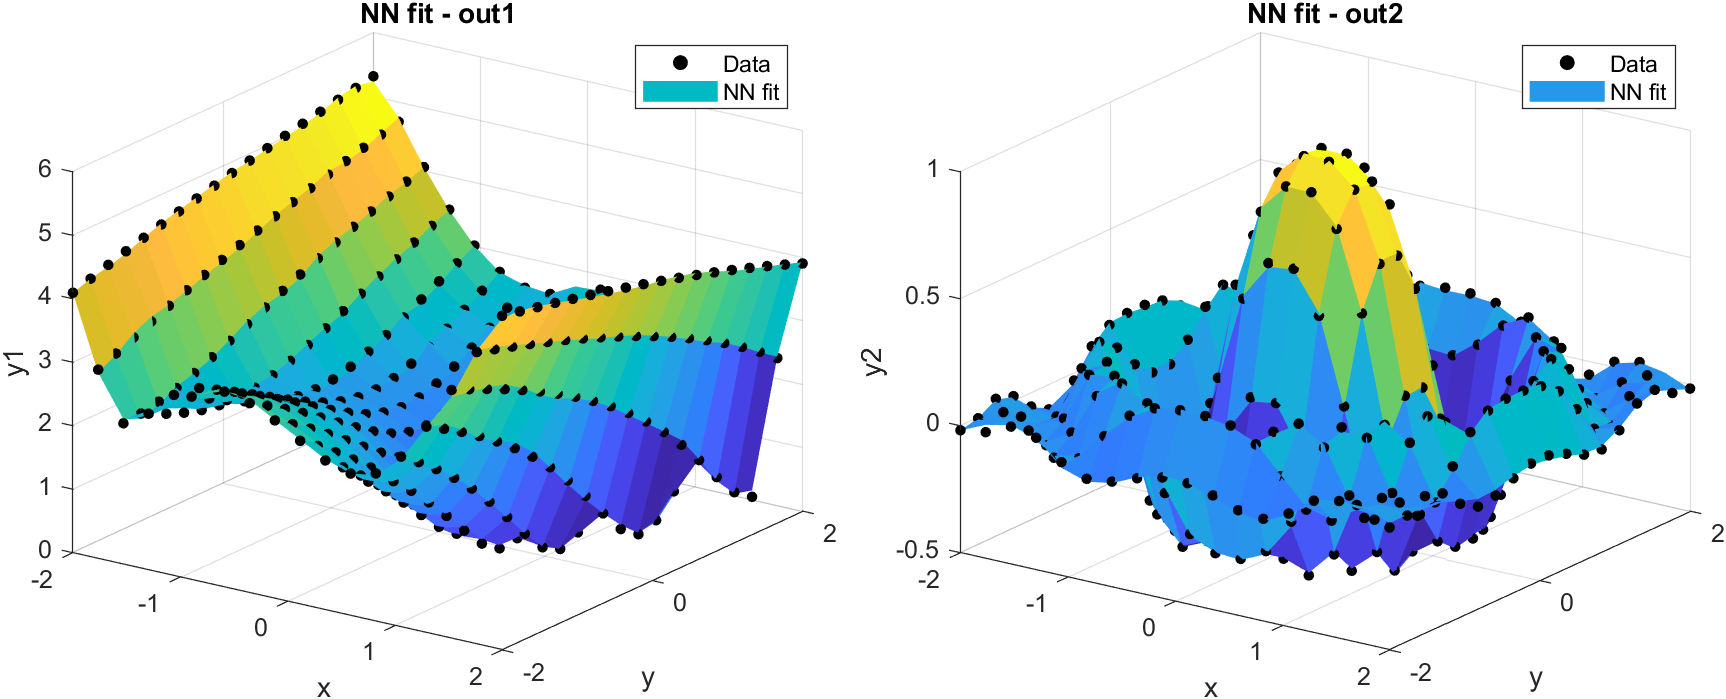
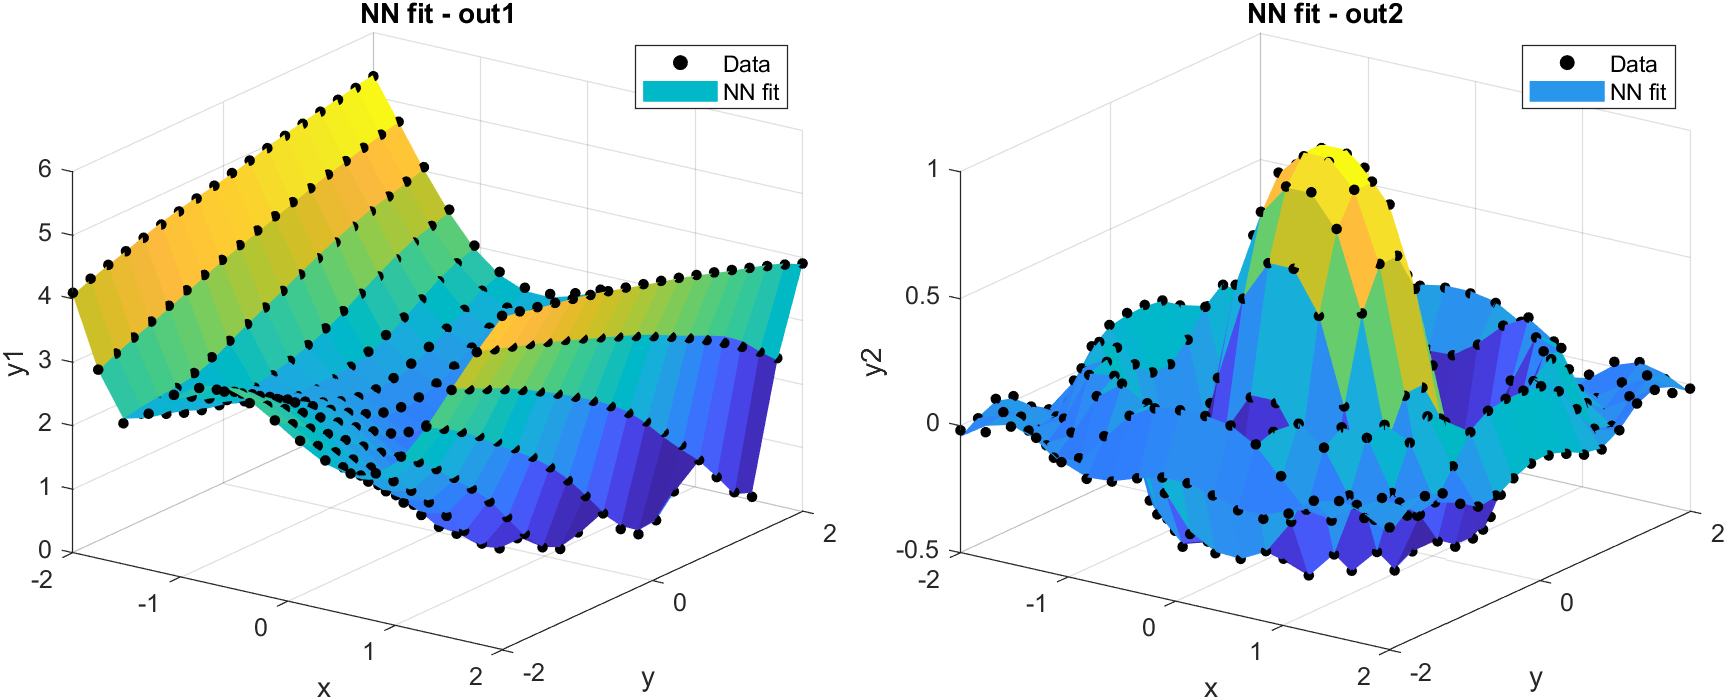
feat: 支援 NN.ActivationFunction = 'Bspline' 預設參數，完善 README，NeuralFit/Initialization 行為優化

diff --git a/demoScript/SharpFunctionApproximate.m b/demoScript/SharpFunctionApproximate.m
@@ -1,28 +1,42 @@
-%% 2D Piecewise-Constant Surface Fitting with Pointwise Error
-% Target: a 2D function with multiple plateau regions and sharp jumps
+%% 2D Sharp-but-Smooth Function Fitting with Pointwise Error
+% Target: a 2D function with sharp but smooth transitions
 clear; clc; close all;
 
-%% Generate piecewise-constant target on [-2,2]x[-2,2]
+%% Generate sharp-but-smooth target on [-2,2]x[-2,2]
 n = 50;
 xv = linspace(-2, 2, n);
 yv = linspace(-2, 2, n);
 [X, Y] = meshgrid(xv, yv);
 
-% Multiple step regions (values in [-1, 1])
-F = 0.6*sign(sin(2*X)) ...
-  + 0.4*sign(cos(3*Y)) ...
-  - 0.3*sign(X.*Y - 0.5) ...
-  + 0.2*sign(X.^2 + Y.^2 - 2);
+% Smooth but with sharp transitions
+% --- Parameters ---
+F = zeros(size(X));
+num_pulses = 3;
+centers = linspace(-1.5, 1.5, num_pulses);
+width = 0.35; % width of each pulse
+sharpness = 40; % higher = sharper edge
+for i = 1:num_pulses
+    for j = 1:num_pulses
+        cx = centers(i);
+        cy = centers(j);
+        % 2D smooth square pulse (almost discrete)
+        pulse = 0.8 * (1 ./ (1 + exp(-sharpness*(X-cx+width/2))) - 1 ./ (1 + exp(-sharpness*(X-cx-width/2)))) ...
+                   .* (1 ./ (1 + exp(-sharpness*(Y-cy+width/2))) - 1 ./ (1 + exp(-sharpness*(Y-cy-width/2))));
+        F = F + pulse;
+    end
+end
+
+% Add small amplitude smooth variation
+F = F + 0.15 * sin(2*X) .* sin(2*Y);
 
 data  = [X(:), Y(:)].';   % 2 x D
-label = F(:).';            % 1 x D
+label = F(:).';           % 1 x D
 
 %% Fit with deep ResNet + BSpline activation (ReLU init shape) + LayerNorm
-layers = [2, repmat(8,1,20), 1];  % 20 hidden layers, width 8
+layers = [2, repmat(8,1,30), 1];  % 20 hidden layers, width 8
 
 NN.Cost = 'MSE';
 NN.ActivationFunction = 'Gaussian';
-% NN.BSplineInitShape = 'ReLU';
 NN.NetworkType = 'ResNet';
 NN.LayerNorm = 'on';
 NN = Initialization(layers, NN);
@@ -37,7 +51,7 @@ option.MaxIteration = 450;
 NN = OptimizationSolver(data, label, NN, option);
 
 prediction = NN.Evaluate(data);
-
+performance = FittingReport(data, label, NN);
 %% Compute pointwise absolute error
 errMap = reshape(abs(prediction - label), n, n);
 predSurf = reshape(prediction, n, n);
@@ -45,11 +59,11 @@ predSurf = reshape(prediction, n, n);
 %% Plot
 figure('Color','w', 'Position', [80 80 1300 500]);
 
-% --- Left: true piecewise surface ---
+% --- Left: true surface ---
 subplot(1,3,1);
 surf(X, Y, F, 'EdgeColor', 'none');
 xlabel('x'); ylabel('y'); zlabel('f');
-title('Target (piecewise-constant)');
+title('Target (sharp-but-smooth)');
 view([-35 30]); colormap(gca, parula); colorbar;
 
 % --- Middle: NN fit ---
@@ -67,5 +81,5 @@ title('Pointwise |error|');
 colorbar; colormap(gca, hot);
 axis equal tight;
 
-fprintf('Piecewise 2D fit — MAE: %.4e, max|error|: %.4e\n', ...
+fprintf('Sharp-but-smooth 2D fit — MAE: %.4e, max|error|: %.4e\n', ...
     mean(errMap(:)), max(errMap(:)));

diff --git a/functions/optimization/NeuralFit.m b/functions/optimization/NeuralFit.m
@@ -22,9 +22,28 @@ function fittedModel = NeuralFit(data, label, ioDimension, varargin)
 
     NN.InputAutoScaling = 'on';
     NN.LabelAutoScaling = 'on';
+
     NN.NetworkType = 'ANN';
     NN.Cost = 'MSE';
+
     NN = applyBasisConfig(NN, config);
+
+    % LayerNorm default behavior：
+    % ANN: depth >= 7 on，ortherwise off（unless user specified）
+    % ResNet: default on
+    if ~isfield(NN, 'LayerNorm')
+        if isfield(NN, 'NetworkType') && strcmpi(NN.NetworkType, 'ResNet')
+            NN.LayerNorm = 'on';
+        else
+            % activate ln base on depth of ANN
+            if numel(layerStruct) - 1 >= 7
+                NN.LayerNorm = 'on';
+            else
+                NN.LayerNorm = 'off';
+            end
+        end
+    end
+
     NN = Initialization(layerStruct, NN);
 
     option = getDefaultFitOptions(numData, config);
@@ -47,7 +66,7 @@ function fittedModel = NeuralFit(data, label, ioDimension, varargin)
 end
 
 function config = parseFitConfig(varargin)
-    config.activation = 'BSpline';
+    config.activation = 'Gaussian';
     config.stage1Iterations = 50;
     config.stage2Iterations = 550;
     config.storeHistory = false;
@@ -79,7 +98,6 @@ end
 
 function NN = applyBasisConfig(NN, config)
     actName = config.activation;
-
     if strcmpi(actName, 'BSpline')
         NN.ActivationFunction = 'BSpline';
         NN.bspline.order = 3;

diff --git a/functions/network/Initialization.m b/functions/network/Initialization.m
@@ -18,7 +18,7 @@ function NN = Initialization(LayerStruct, NN)
         NN.Cost              = 'MSE';
         NN.NetworkType        = 'ANN';
         NN.InputAutoScaling   = 'on';
-        NN.LabelAutoScaling   = 'off';
+        NN.LabelAutoScaling   = 'on';
     end
 
     if ~isfield(NN,'ActivationFunction');  NN.ActivationFunction = 'Gaussian'; end
@@ -212,7 +212,11 @@ function NN = Initialization(LayerStruct, NN)
     % ------------------------------------------------------------
     % Layer Normalization (optional, for ANN and ResNet)
     % ------------------------------------------------------------
-    if ~isfield(NN,'LayerNorm'); NN.LayerNorm = 'on'; end
+    if ~isfield(NN,'LayerNorm'); NN.LayerNorm = 'off'; end
+    % ResNet 預設 on，ANN 由外部決定（NeuralFit 已處理）
+    if strcmpi(NN.NetworkType, 'ResNet') && ~isfield(NN, 'LayerNorm')
+        NN.LayerNorm = 'on';
+    end
     NN.layerNormOn = strcmp(NN.LayerNorm, 'on');
 
     if NN.layerNormOn

diff --git a/mainDemo.m b/mainDemo.m
@@ -1,10 +1,11 @@
 clear; clc; close all;
+
 if ~exist('NeuralFit','file')
     run('installScript/installNeuralNetsPack.m');
 end
 
-x = linspace(-2, 2, 80);
-y = abs(x) + 0.1*sin(8*x);
+x = linspace(-2, 2, 100);
+y = abs(x) + 0.15*sin(10*x).*exp(-0.4*x.^2);
 
 model = NeuralFit(x, y, [1, 1]);
 prediction = model.Evaluate(x);
@@ -12,5 +13,5 @@ prediction = model.Evaluate(x);
 figure();
 plot(x, y, 'k.', x, prediction, 'r-', 'LineWidth', 1.5);
 grid on;
-legend('Data', 'NeuralFit default: B-spline basis', 'Location', 'best');
-title('Sharp / nonsmooth fitting: default B-spline basis');
+legend('Data', 'NeuralFit', 'Location', 'best');
+title('Nonsmooth Curve Fitting');

diff --git a/demoScript/SimplifiedWorkflow.m b/demoScript/SimplifiedWorkflow.m
@@ -33,12 +33,12 @@ model = OptimizationSolver(data, label, model, option);
 % 3) Validation (report + prediction)
 %% ------------------------------------------------------------
 report = FittingReport(data, label, model);
-prediction = report.prediction;         % (2 x n^2)
+prediction = report.Prediction;         % (2 x n^2)
 
 %% ------------------------------------------------------------
 % 4) Visualization (both outputs)
 %% ------------------------------------------------------------
-prediction = report.prediction;   % (2 x n^2)
+prediction = report.Prediction;   % (2 x n^2)
 
 fit1 = reshape(prediction(1,:), n, n);
 fit2 = reshape(prediction(2,:), n, n);

diff --git a/demoScript/BenchmarkActivation1D.m b/demoScript/BenchmarkActivation1D.m
@@ -3,8 +3,8 @@ clear; clc; close all;
 x = linspace(-3, 3, 160);
 y = sign(sin(3*x)) + 0.15*cos(11*x);
 
-bsplineModel = NeuralFit(x, y, [1, 1]);
-gaussianModel = NeuralFit(x, y, [1, 1], 'basis', 'Gaussian');
+bsplineModel = NeuralFit(x, y, [1, 1], 'basis', 'BSpline');
+gaussianModel = NeuralFit(x, y, [1, 1]);
 
 yBspline = bsplineModel.Evaluate(x);
 yGaussian = gaussianModel.Evaluate(x);

diff --git a/docs/source/createReadmeFigures.m b/docs/source/createReadmeFigures.m
@@ -25,7 +25,7 @@ x = linspace(-3, 3, 220);
 y = tanh(18*sin(5*x)) + 0.08*cos(17*x);
 
 bsplineModel = NeuralFit(x, y, [1, 1], ...
-    'stage1Iterations', 80, 'stage2Iterations', 500);
+    'stage1Iterations', 80, 'stage2Iterations', 500, 'basis', 'Bspline');
 yHat = bsplineModel.Evaluate(x);
 
 fig = figure('Visible', 'off', 'Color', 'w', 'Position', [100 100 820 360]);

diff --git a/README.md b/README.md
@@ -1,15 +1,14 @@
-# Neural Net Curve Fitting and Surface Fitting Toolbox
+# Neural Network Toolbox for Curve Fitting and Nonlinear Regression
 
-[![MATLAB](https://img.shields.io/badge/MATLAB-R2020b%2B-blue.svg)](https://www.mathworks.com/products/matlab.html)
-[![No Dependency](https://img.shields.io/badge/dependencies-none-brightgreen.svg)](#installation)
-[![License](https://img.shields.io/badge/license-MIT-yellow.svg)](LICENSE)
+Lightweight MATLAB toolbox for N-dimensional curve fitting, surface fitting, nonlinear regression, and function approximation.Supports learnable B-spline activations, ANN/ResNet architectures, and quasi-Newton refinement for high-accuracy fitting of sharp or nonsmooth targets.
 
-A lightweight MATLAB toolbox for **N-dimensional curve fitting**, **surface fitting**, **nonlinear regression**, and **function approximation**. It combines learnable B-spline activations with quasi-Newton refinement to achieve high accuracy on sharp or nonsmooth targets without requiring the Deep Learning Toolbox or any external dependencies.
+Pure MATLAB implementation with no Deep Learning Toolbox, MEX, or external dependencies.
 
 ```matlab
 NN = NeuralFit(x, y, [N, M]);
-yHat = NN.Evaluate(x);
+yPred = NN.Evaluate(x);
 ```
+`N` and `M` denote input and output dimensions.
 
 <p align="center">
   <img src="docs/assets/sharp-square-wave-curve-fitting.png" alt="MATLAB neural network sharp curve fitting with learnable B-spline activation" width="720">
@@ -23,16 +22,16 @@ yHat = NN.Evaluate(x);
 
 ## Usage
 
-- `x`: input data, `N × D` (dimensions × samples)
-- `y`: target data, `M × D`
+- `x`: input data, `D × N` (dimensions × number of samples)
+- `y`: target data, `D × M` (dimensions × number of samples)
 - `[N, M]`: input and output dimensions
 
-The default activation is a **learnable quadratic B-spline**. To switch:
+The default activation/basis is a **Gaussian**. To switch basis:
 
 ```matlab
-NN = NeuralFit(x, y, [N, M]);                       % learnable B-spline (default)
-NN = NeuralFit(x, y, [N, M], 'basis', 'Gaussian');   % fixed Gaussian basis
-NN = NeuralFit(x, y, [N, M], 'basis', 'Wavelet');    % fixed Wavelet basis
+NN = NeuralFit(x, y, [N, M]);                       % gaussian (default)
+NN = NeuralFit(x, y, [N, M], 'basis', 'Wavelet');   % wavelet basis
+NN = NeuralFit(x, y, [N, M], 'basis', 'BSpline');   % learnable B-spline basis
 ```
 
 ---
@@ -153,11 +152,10 @@ Ready-to-run templates in `demoScript/`:
 ## Training Tips
 
 - Data shape: `dimensions × samples`
-- Use the default B-spline activation for sharp or nonsmooth targets
-- Use `'basis','Gaussian'` for smooth functions
+- Use the B-spline activation for sharp or nonsmooth targets
 - Start with a small network; increase width/depth only if needed
 - `NeuralFit` applies autoscaling by default for stable convergence
-- Apply BFGS/L-BFGS after stochastic training for machine-precision results
+- Apply BFGS/L-BFGS after stochastic training for high-precision results
 
 ---
 
